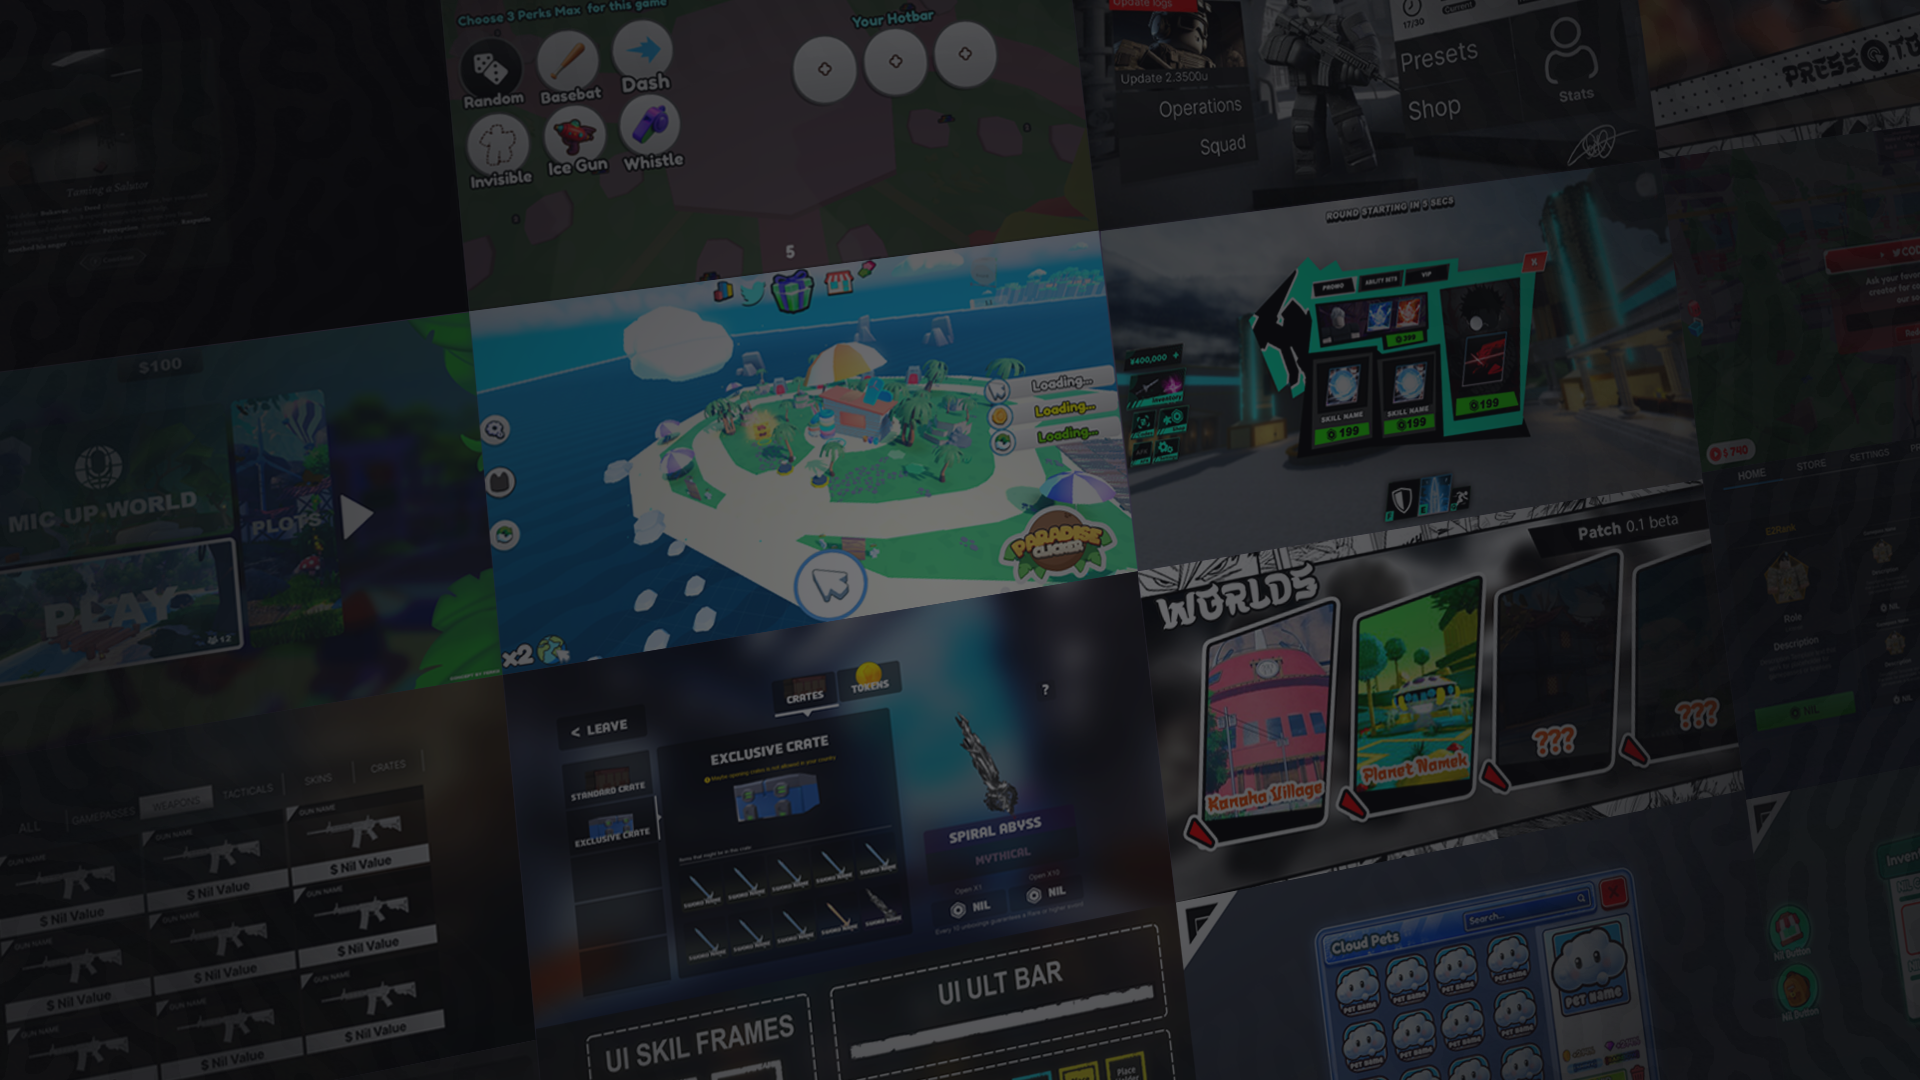
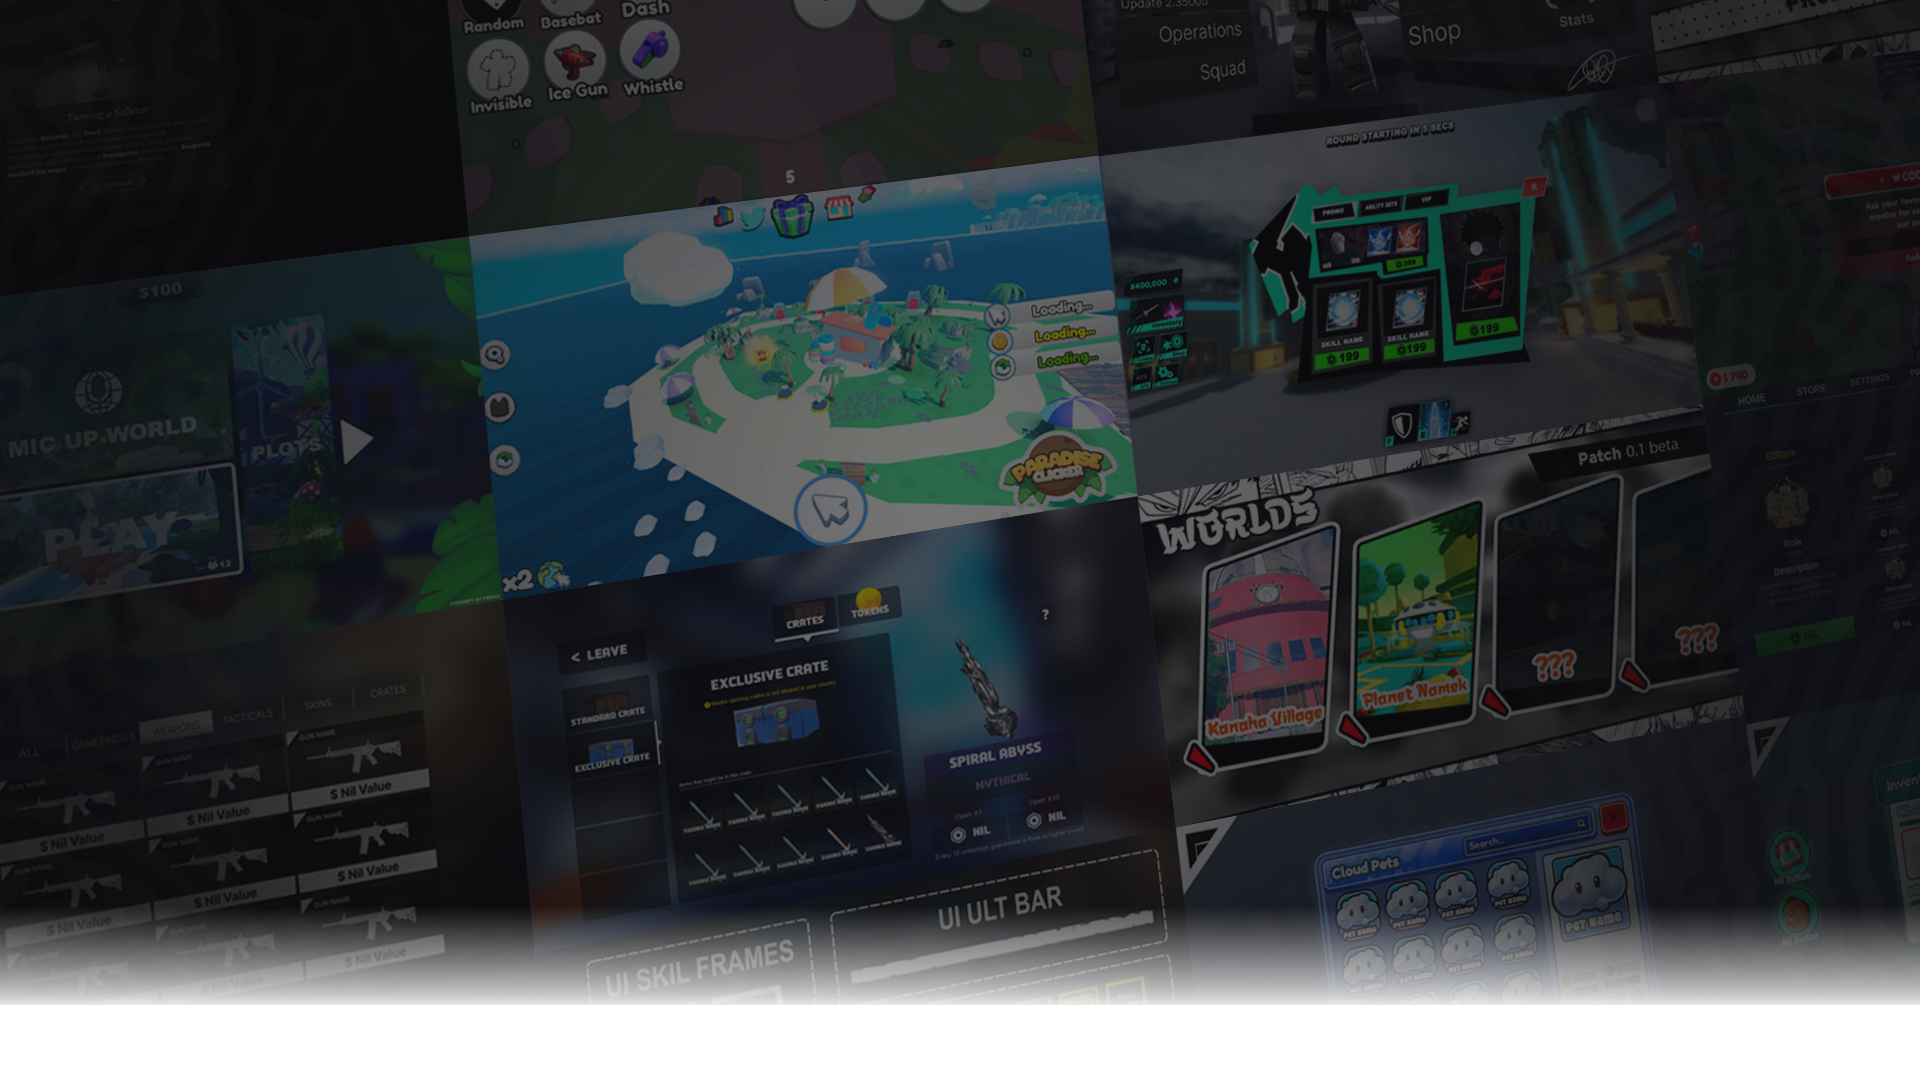
Dev with update
.

diff --git a/src/Styles/style.css b/src/Styles/style.css
@@ -142,7 +142,7 @@ html, body {
 }
 
 .icon {
-  fill: white;
+  fill: rgb(255, 255, 255);
   width: 1em;
   height: 1em;
 }
@@ -152,15 +152,40 @@ html, body {
 }
 
 .About {
-min-height: 90vh;
-display: flex;
-justify-content: center;
-flex-direction: column;
-align-items: center;
-color: #2b2f32;
-background-image: url(/src/images/UiBg.png);
-background-color: rgba(0, 0, 0, 0.9);
-background-blend-mode: darken;
+  position: relative;
+  min-height: 90vh;
+  display: flex;
+  justify-content: center;
+  flex-direction: column;
+  align-items: center;
+  color: #2b2f32;
+  background-image: 
+    linear-gradient(to bottom, rgba(0, 0, 0, 1) 0%, rgba(0, 0, 0, 0.8) 92.5%, rgba(0, 0, 0, 0) 100%),
+    url(/src/images/UiBg.png);
+  background-blend-mode: darken;
+  background-size: cover;
+  background-position: center;
+  background-repeat: no-repeat;
+  overflow: hidden;
+}
+
+
+.About::after {
+  content: "";
+  position: absolute;
+  top: 0;
+  left: 0;
+  width: 100%;
+  height: 100%;
+  background: linear-gradient(
+    to bottom,
+    rgb(0, 0, 0) 0%,       
+    transparent 20%,         
+    transparent 80%,         
+    rgba(0, 0, 0 0.8) 100%
+  );
+  pointer-events: none;
+  background-blend-mode: normal;
 }
 
 .BeforeTittle {
@@ -190,13 +215,17 @@ background-blend-mode: darken;
   margin-top: -45px;
 }
 
+
+
 .Info {
+  position: relative;
   display: flex;
   justify-content: center;
   align-items: center;
   margin-bottom: 100px;
   margin-top: 100px;
 }
+
 
 .Aboutme {
 min-height: 450px;
@@ -393,7 +422,6 @@ width: 90vw;
 
 .Portfolio_Section {
   min-height: 25vh;
-  max-height: 70vh;
   display: block;
   place-items: center;
   overflow: hidden;
@@ -462,7 +490,6 @@ width: 90vw;
   text-align: end;
   font-size: 15px;
 }
-
 .swiper-pagination > .swiper-pagination-bullet {
   opacity: 1;
   border: white solid 1px;
@@ -470,6 +497,41 @@ width: 90vw;
 }
 .swiper-pagination > .swiper-pagination-bullet-active {
   background-color: #fffe35;
+}
+
+.OverHeader{
+  margin-top: 50px;
+  font-family: Days One;
+  color: #fffe35;
+  font-weight: 500;
+  font-size: 50px;         
+  margin-top: 50px;  
+  justify-content: center;
+  text-align: center;
+}
+
+.OverDiv{
+  margin-top: 50px;
+  font-family: Days One;
+  color: #ffffff;
+  font-weight: 500;
+  font-size: 75px;
+  display: flex;
+  flex-wrap: wrap;       
+  justify-content: center; 
+  gap: 40px;           
+  margin-top: 50px;  
+  min-width: 300px;
+  gap: 150px;
+  text-align: center;
+}
+
+.InnerText {
+  font-family: Fredoka;
+  font-weight: 500;
+  font-size: 25px;
+  color: #747e86;
+  max-width: 15ch;
 }
 
 .Portfolio_btn {

diff --git a/index.html b/index.html
@@ -294,6 +294,14 @@
   <!-- If we need scrollbar -->
   <div class="swiper-scrollbar"></div>
 </div>
+
+<div class="OverHeader">DEV WITH
+  <div class="OverDiv">
+  <div class="OverText">300+<div class="InnerText">Unique clients arround the world</div></div>
+  <div class="OverText">50+<div class="InnerText">Collabs with Studios and Brands</div></div>
+  <div class="OverText">2M+<div class="InnerText">Attribuited In Game Visits</div></div>
+</div>
+</div>
 </section>
 
 
